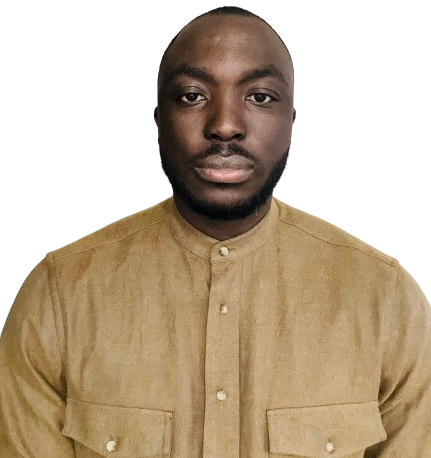
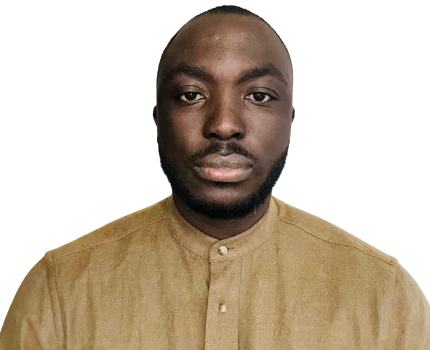
added one team member

diff --git a/components/TeamCard.jsx b/components/TeamCard.jsx
@@ -5,7 +5,7 @@ const TeamCard = ({ teamMembers, i }) => {
   return (
     <>
       <div className="m-10  flex justify-center flex-wrap items-center  text-black">
-        <div className=" p-10 w-full sm:w-96 m-4 sm:p-2">
+        <div className="  w-full sm:w-96  sm:p-2">
           <h1 className="text-3xl   text-blue-900 leading-10 font-bold">
             Meet our team
           </h1>
@@ -15,22 +15,17 @@ const TeamCard = ({ teamMembers, i }) => {
             highest heights in their career.
           </p>
         </div>
-        <div className="grid  sm:grid-cols-2 grid-cols-1 p-1 m-3 gap-5">
+        <div className="grid sm:grid-cols-2 grid-cols-1 p-1 m-3 gap-5">
           {teamMembers?.map((teamMember) => {
             return (
               <div
-                className=" flex items-center  flex-col shadow-xl "
+                className=" flex items-center h-64 flex-col  "
                 key={teamMember.id}
               >
-                <div className=" m-5">
-                  <Image
-                    className=" rounded-full overflow-hidden"
-                    src={teamMember.image}
-                    alt="team images"
-                    width="150"
-                  />
+                <div className="w-40">
+                  <Image src={teamMember.image} alt="team images" />
                 </div>
-                <div className="p-3 text-left">
+                <div className="p-3 text-left mb-10">
                   <p className="uppercase ">{teamMember.name}</p>
                   <p className="uppercase text-center text-blue-900 font-bold">
                     {teamMember.position}
